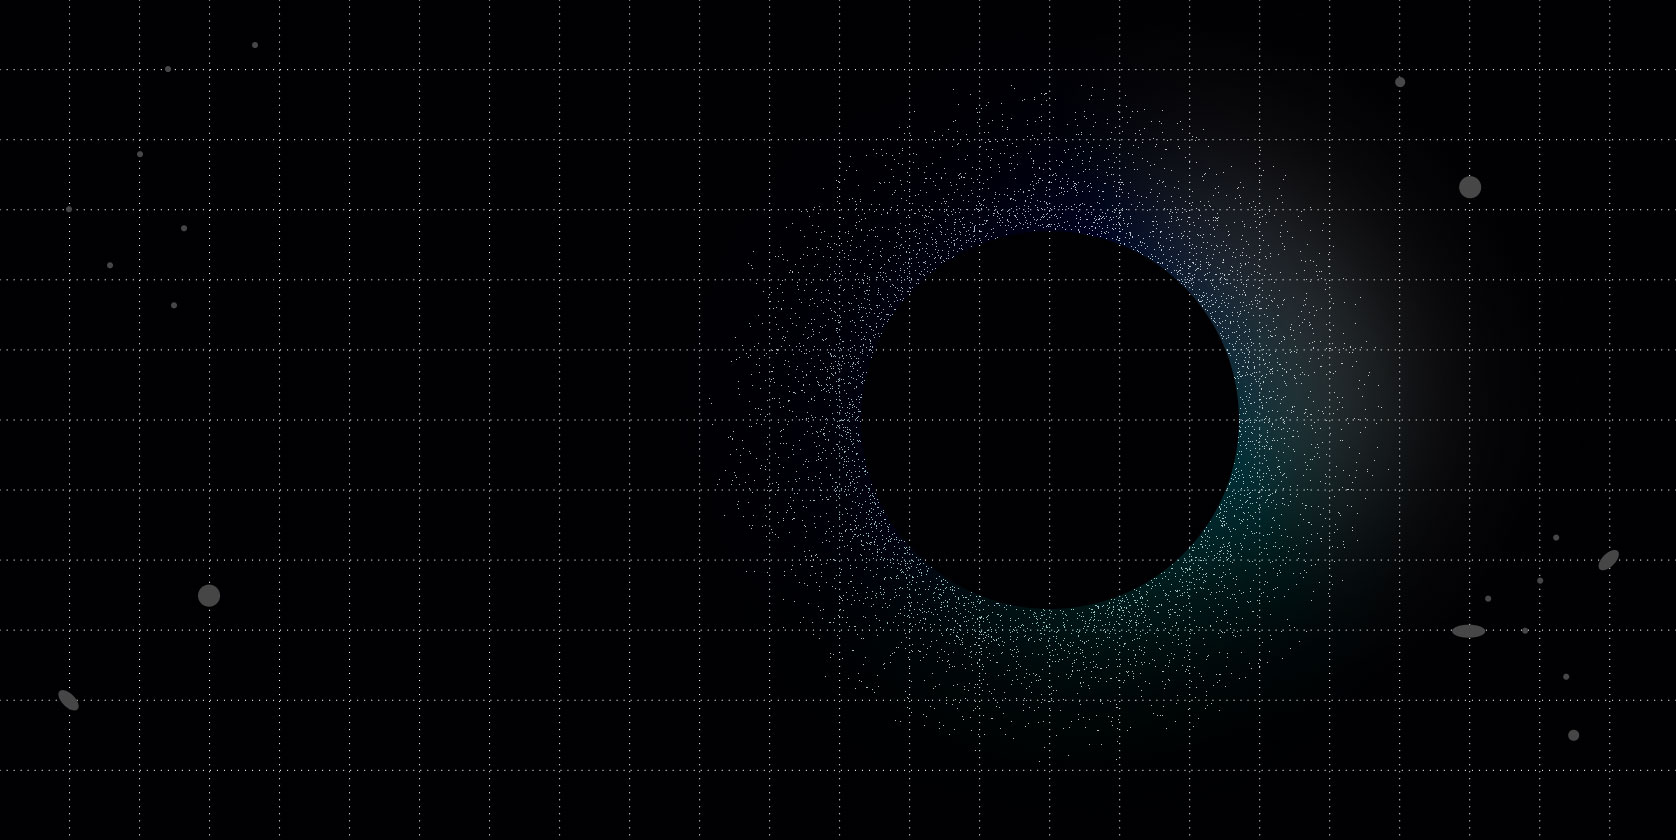
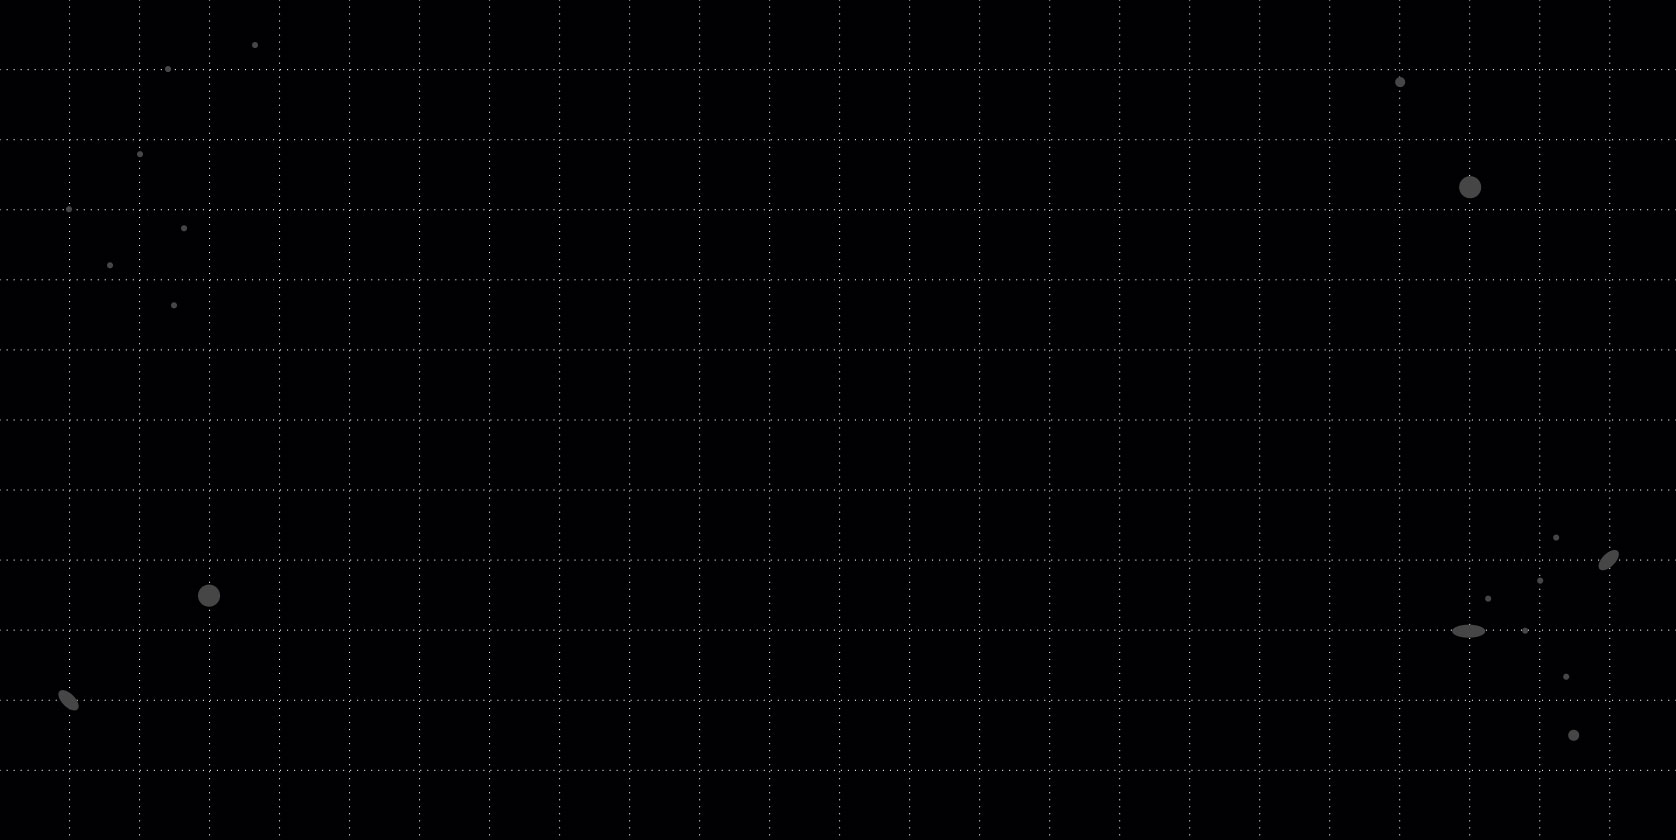
Remove background from preview-screen

Changed region(s): [[0.5895, 0.1857, 0.8377, 0.7738]]

diff --git a/app/static/styles/main.css b/app/static/styles/main.css
@@ -716,13 +716,6 @@ p,
   margin-top: -52px;
 }
 
-.preview-screen {
-  background-image: url("../images/preview-screen-bg.jpg");
-  background-repeat: no-repeat;
-  background-size: cover;
-  background-position: top center;
-}
-
 .preview-screen__scroll {
   height: 100vh;
 }

diff --git a/app/sass/screens/preview-screen.sass b/app/sass/screens/preview-screen.sass
@@ -1,9 +1,4 @@
 .preview-screen
-  background:
-    image: url('../images/preview-screen-bg.jpg')
-    repeat: no-repeat
-    size: cover
-    position: top center
   &__scroll
     height: 100vh
   &__row
